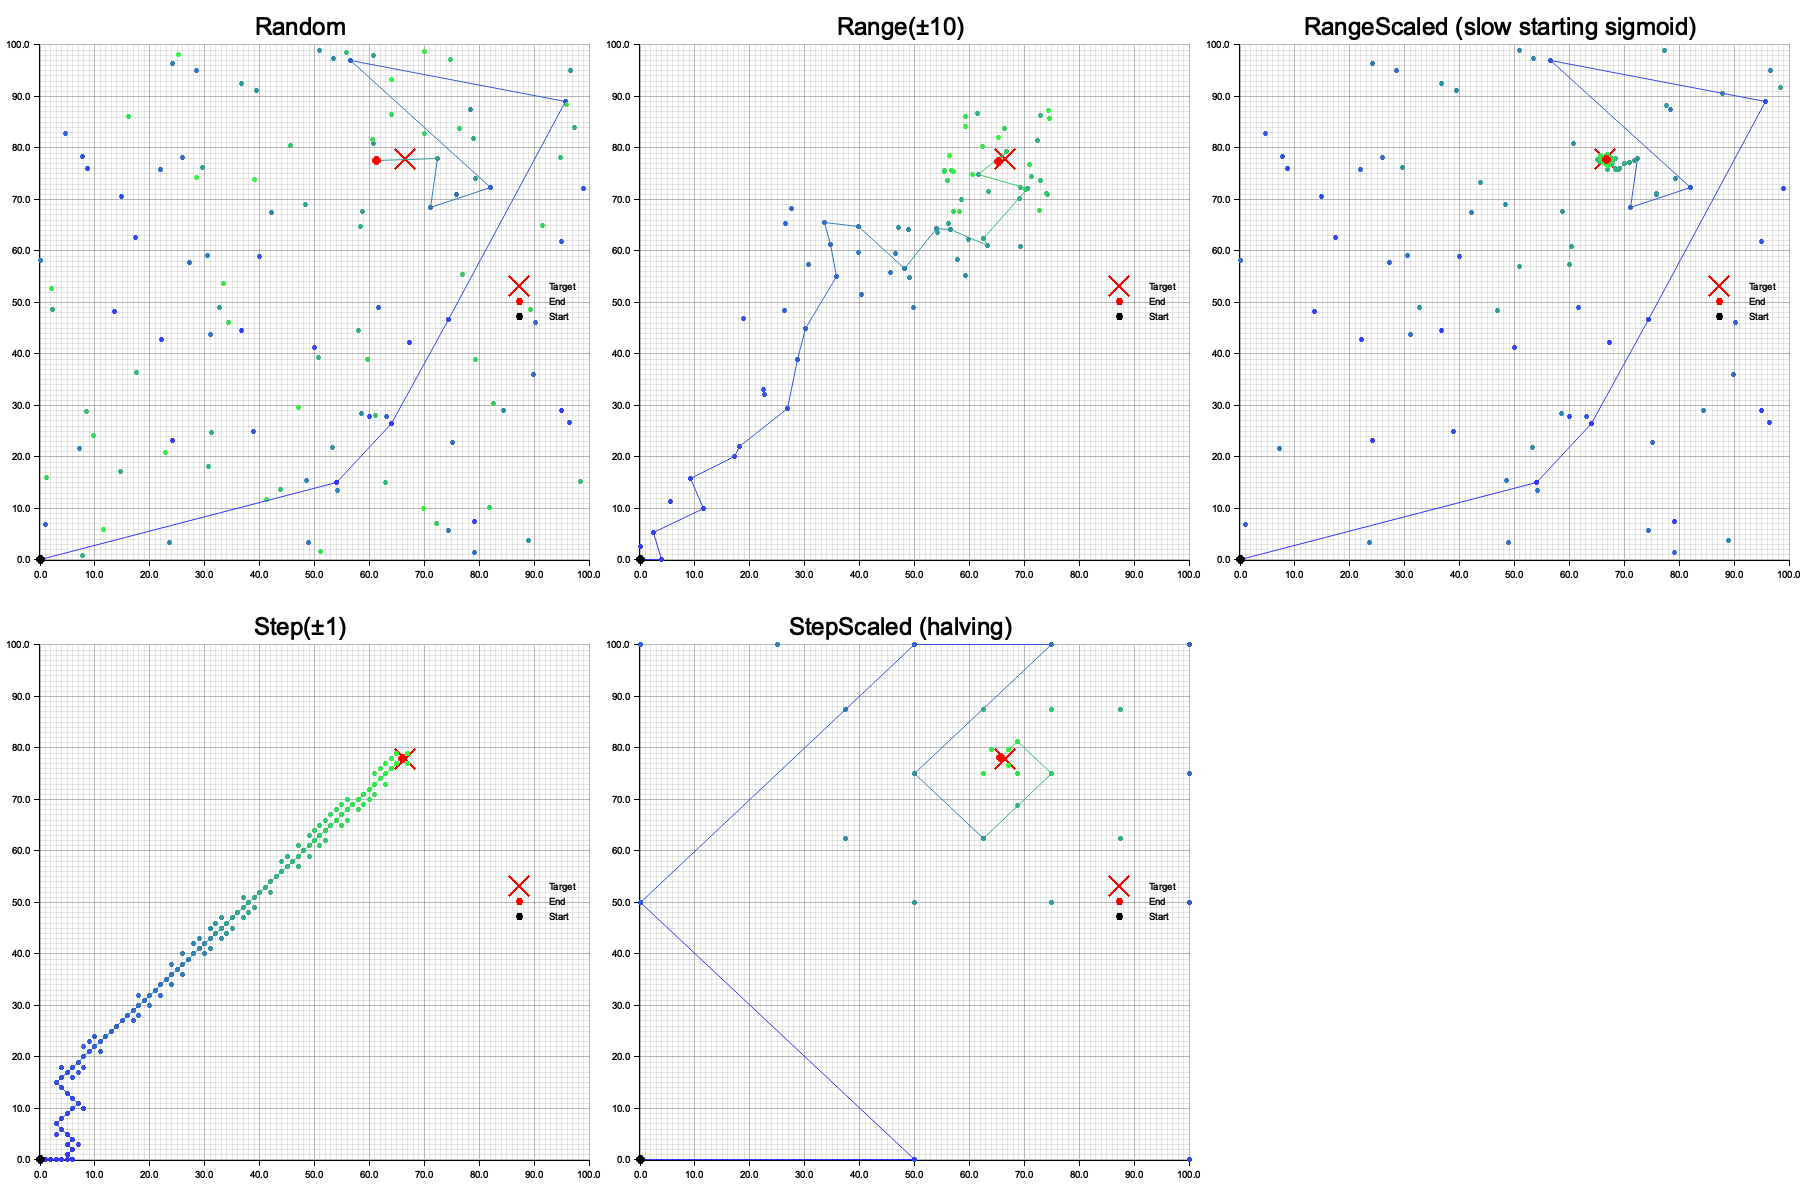
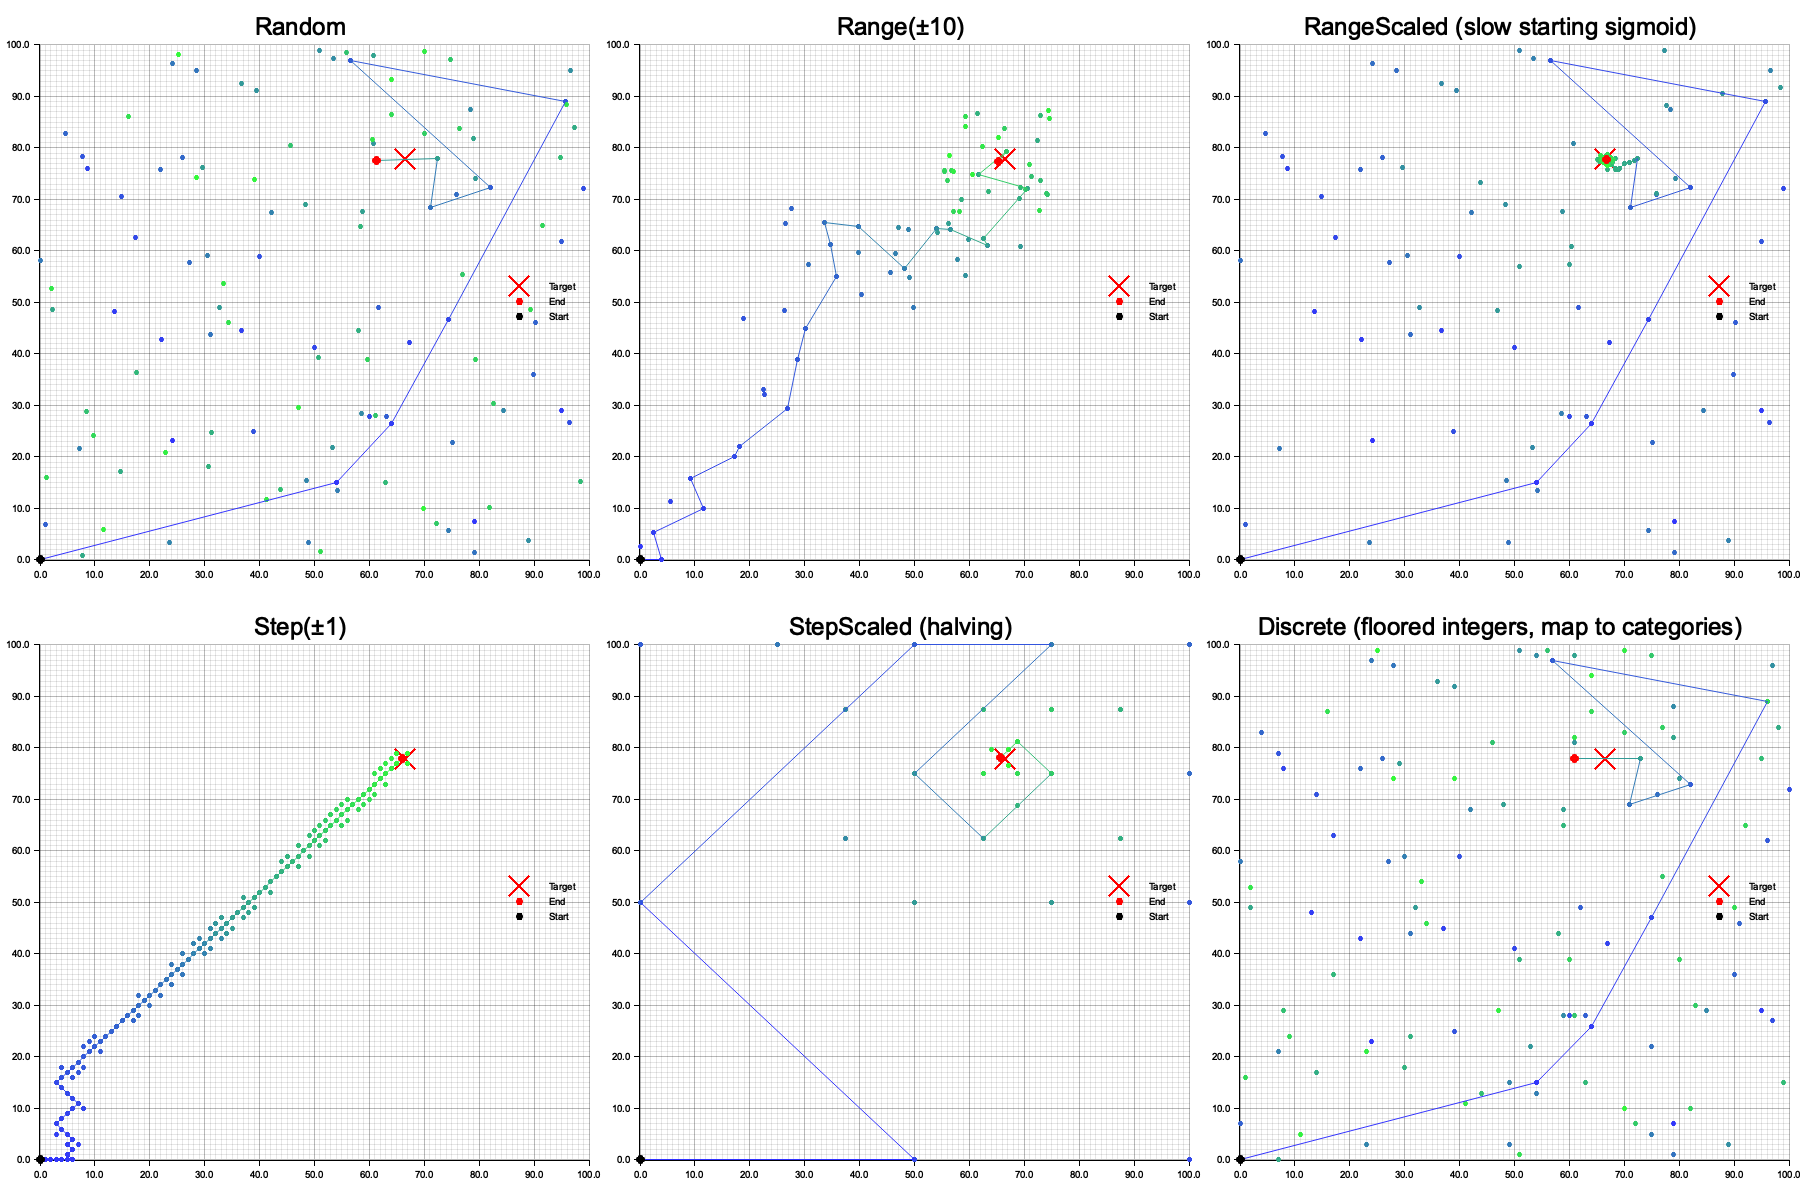
Add MutationType::Discrete for completeness to visualize_mutation_types

Changed region(s): [[0.6844, 0.4933, 1.0, 0.9867]]

diff --git a/src/lib.rs b/src/lib.rs
@@ -115,6 +115,28 @@
 //! different gene semantics (continuous values, discrete choices, booleans) within a single
 //! numeric type `T`.
 //!
+//! ## [MutationType](crate::genotype::MutationType) Visualization
+//!
+//! The library supports various mutation strategies that affect how the genetic
+//! algorithm explores the search space. Random leads to the best results overall.
+//! Random is the default and is supported by all Genotypes.
+//!
+//! But for continues genotypes ([RangeGenotype](crate::genotype::RangeGenotype) and
+//! [MultiRangeGenotype](crate::genotype::MultiRangeGenotype)) there are several alternatives.
+//! These might converge faster, but are all more sensitive to local optima than Random. The
+//! visualization example shows how different mutation types explore a 2D search space when searching
+//! for a target point:
+//!
+//! The visualization demonstrates:
+//! - **Random**: Chaotic exploration, can jump anywhere in search space
+//! - **Range**: Local search with fixed radius around current position
+//! - **RangeScaled**: Adaptive exploration that starts broad and narrows down (funnel-like convergence)
+//! - **Step**: Fixed-step local search in cardinal directions
+//! - **StepScaled**: Grid-like exploration with progressively finer resolution
+//! - **Discrete**: ListGenotype behaviour, for categories in heterogeneous genotypes
+//!
+//! Run the example with `cargo run --example visualize_mutation_types --release` to generate the visualization.
+//!
 //! ## Performance considerations
 //!
 //! For the [Evolve](strategy::evolve::Evolve) strategy:

diff --git a/examples/visualize_mutation_types.rs b/examples/visualize_mutation_types.rs
@@ -309,6 +309,14 @@ fn main() {
     );
     reporters.push(("StepScaled (halving)".to_string(), reporter));
 
+    // Discrete mutation - like ListGenotype for categories
+    println!("Running Discrete mutation...");
+    let reporter = run_evolution(MutationType::Discrete, "Discrete".to_string(), 50);
+    reporters.push((
+        "Discrete (floored integers, map to categories)".to_string(),
+        reporter,
+    ));
+
     // Generate visualization
     println!("\nGenerating visualization...");
     if let Err(e) = generate_plot(reporters, "examples/visualize_mutation_types.png") {
@@ -321,5 +329,6 @@ fn main() {
     println!("- RangeScaled: Funnel-like convergence, broad exploration then fine-tuning");
     println!("- Step: Local search with fixed step, smooth but may get stuck");
     println!("- StepScaled: Grid-like exploration with progressively finer resolution");
+    println!("- Discrete: ListGenotype behaviour, for categories in heterogeneous genotypes");
     println!("Color gradient: Blue (early) → Green (late) generations");
 }

diff --git a/README.md b/README.md
@@ -129,9 +129,22 @@ Run with `cargo run --example [EXAMPLE_BASENAME] --release`
 * Custom Mutate implementation
     * See [examples/evolve_milp_custom_mutate](../main/examples/evolve_milp_custom_mutate.rs)
 
+## Heterogeneous Genotype Support
+
+MultiRangeGenotype supports heterogeneous chromosomes that mix different gene
+semantics (continuous values, discrete choices, booleans) within a single
+numeric type `T`.
+
 ## Mutation Type Visualization
 
-The library supports various mutation strategies that affect how the genetic algorithm explores the search space. The visualization below shows how different mutation types explore a 2D search space when searching for a target point:
+The library supports various mutation strategies that affect how the genetic
+algorithm explores the search space. Random leads to the best results overall.
+Random is the default and is supported by all Genotypes. 
+
+But for continues genotypes (RangeGenotype and MultiRangeGenotype) there are
+several alternatives. These might converge faster, but are all more sensitive to
+local optima than Random. The visualization below shows how different mutation
+types explore a 2D search space when searching for a target point:
 
 ![Mutation Types Exploration Patterns](examples/visualize_mutation_types.png)
 
@@ -141,14 +154,9 @@ The visualization demonstrates:
 - **RangeScaled**: Adaptive exploration that starts broad and narrows down (funnel-like convergence)
 - **Step**: Fixed-step local search in cardinal directions
 - **StepScaled**: Grid-like exploration with progressively finer resolution
+- **Discrete**: ListGenotype behaviour, for categories in heterogeneous genotypes
 
 Run the example with `cargo run --example visualize_mutation_types --release` to generate this visualization.
-
-## Heterogeneous Genotype Support
-
-MultiRangeGenotype supports heterogeneous chromosomes that mix different gene
-semantics (continuous values, discrete choices, booleans) within a single
-numeric type `T`.
 
 ## Performance considerations
 
